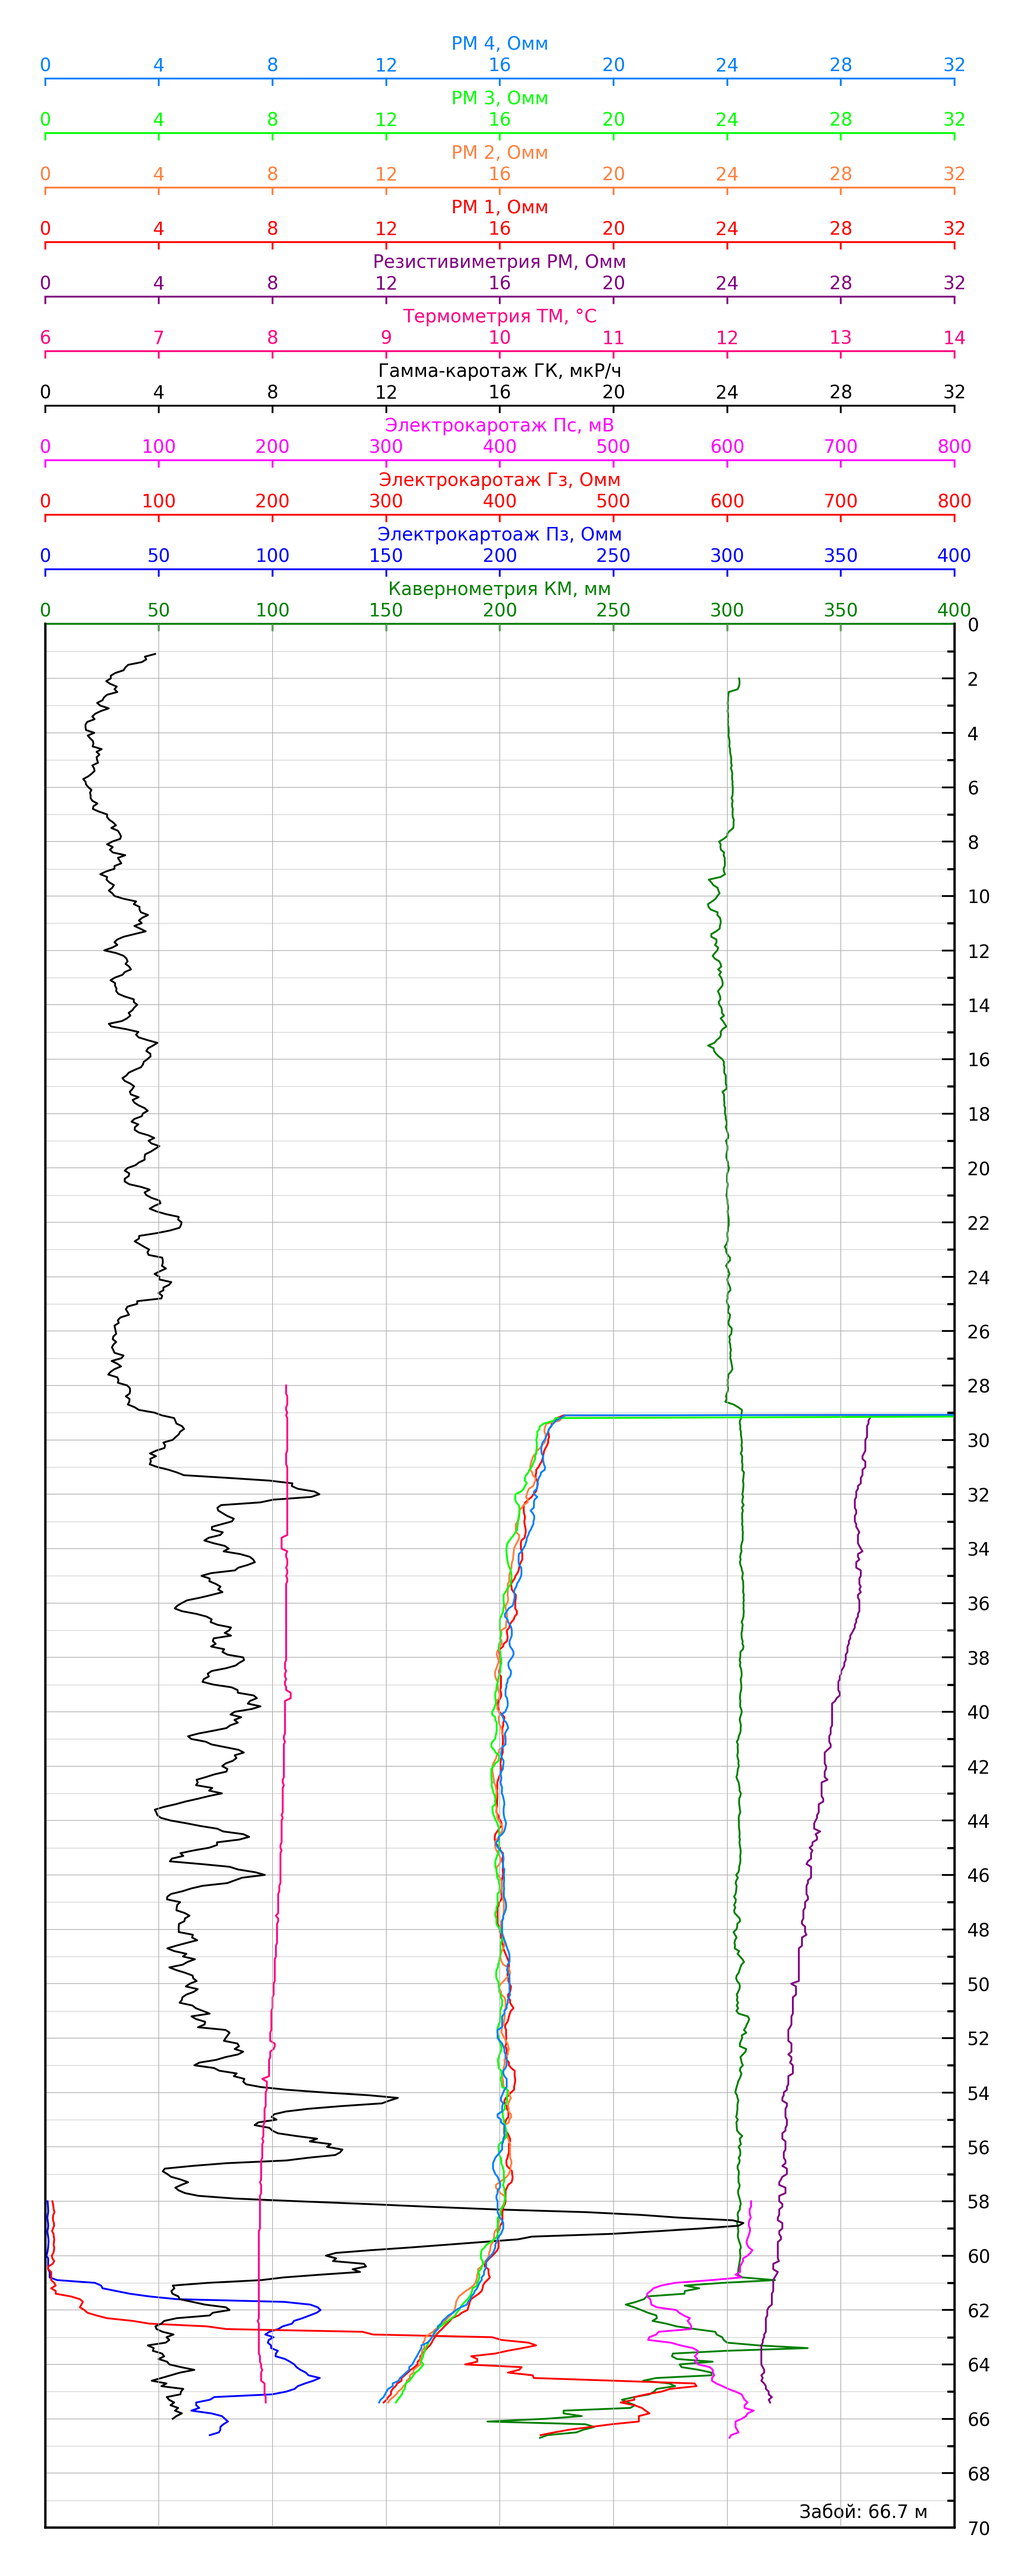
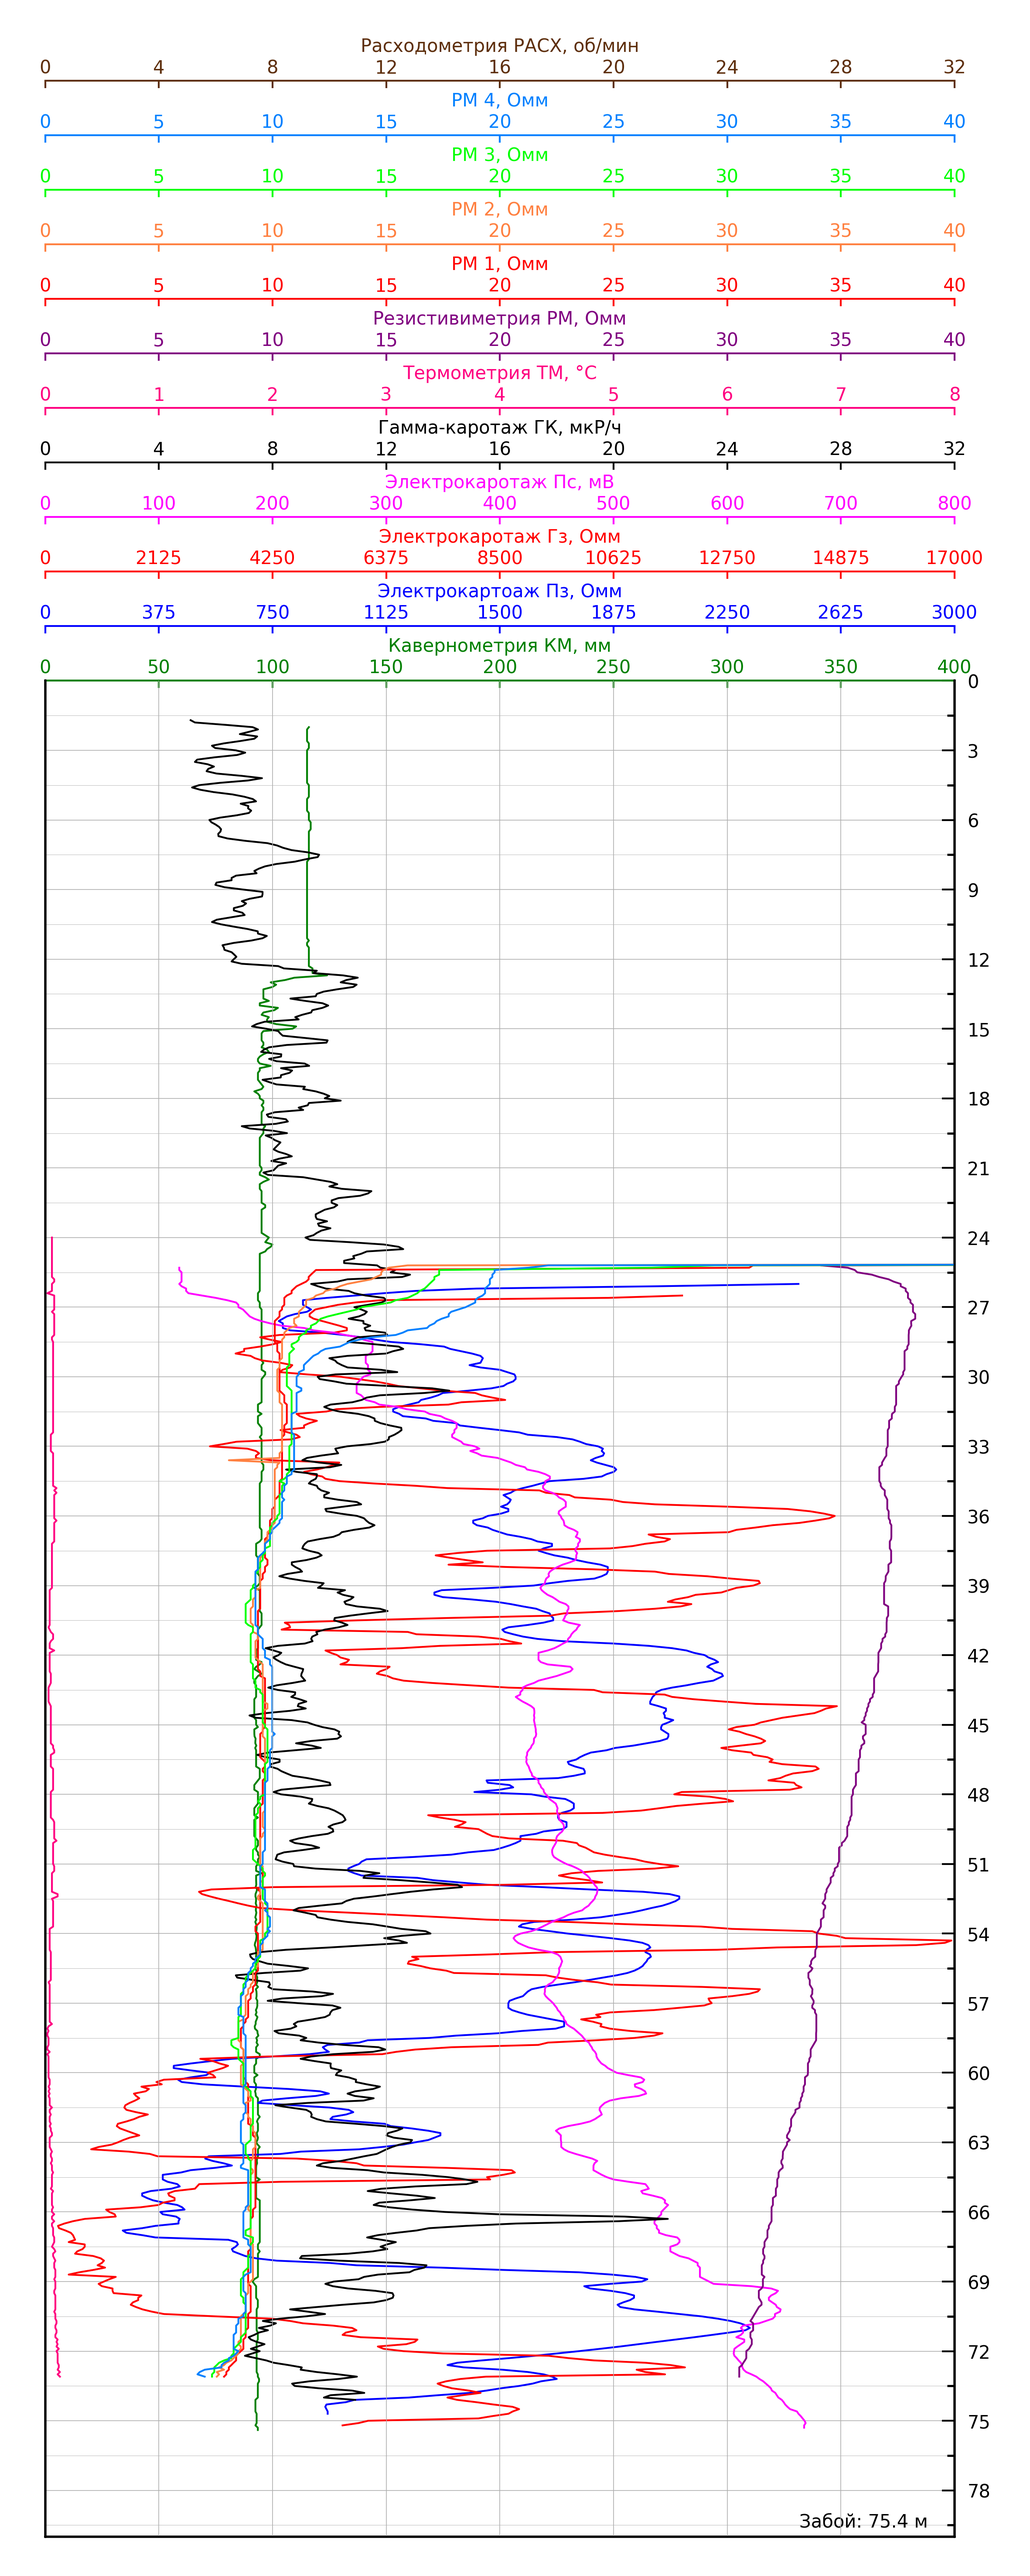
доработал геофизику, почему-то не строится расходометрия

diff --git a/src/well_section_counter/geophys.py b/src/well_section_counter/geophys.py
@@ -16,6 +16,8 @@ names = {
     "TM": "Термометрия ТМ, °С",
     "RM": "Резистивиметрия РМ, Омм",
     "KM": "Кавернометрия КМ, мм",
+    "ML": "Магнитная локация МЛ, у.е.",
+    "RASH": "Расходометрия РАСХ, об/мин",
 }
 
 data_color_dict = {
@@ -31,10 +33,12 @@ data_color_dict = {
     "GK": "#000000",
     "KM": "#008000",
     "D": "#008000",
+    "ML": "#ffa500",
+    "RASH": "#5e2f0d",
 }
 
 
-def lac_read(way="well_section_counter/las/1.las"):
+def lac_read(way="well_section_counter/las/22.las"):
     # чтение файла
     las = lasio.read(way)
     # чтение ключей из файла
@@ -78,9 +82,18 @@ def lac_read(way="well_section_counter/las/1.las"):
     # отдельный цикл для задания границ горизонтальных осей для всех RM (у них должен быть единый масштаб, так что вынес отдельно)
     rm_data = []
     for key in keys:
+        #if key.startswith("RASH"):
+            #data = las[key]
+            #valid_data = data[~np.isnan(data)]
+            #print(valid_data)
+            #print(type(valid_data[0]))
+            #print(len(data))
         if key.startswith("RM"):
             data = las[key]
             valid_data = data[~np.isnan(data)]
+            #print(valid_data)
+            #print(type(valid_data[0]))
+            #print(len(data))
             rm_data.extend(valid_data)
     if "RM" in keys:
         # Преобразуем в массив NumPy для удобства работы
@@ -100,12 +113,6 @@ def lac_read(way="well_section_counter/las/1.las"):
         else:
             rm_min = 0
             rm_max = 32
-        # расчитываем расположение уровня ПВ - пока не работает
-        data = las["RM"]
-        valid_data = data[~np.isnan(data)]
-        target_depth = np.interp(max(valid_data), las["RM"], las["DEPT"])
-        print(max(valid_data))
-        print(target_depth)
     # смещение осей
     offset = 0
     # цикл построения параметров
@@ -125,6 +132,19 @@ def lac_read(way="well_section_counter/las/1.las"):
         if key.startswith("RM"):
             ax_max = rm_max
             ax_min = rm_min
+        if key.startswith("ML"):
+            if max(valid_data) < 400:
+                ax_max = 400
+                ax_min = -400
+            elif max(valid_data) < 800:
+                ax_max = 800
+                ax_min = -800
+            elif max(valid_data) < 1000:
+                ax_max = 1000
+                ax_min = -1000
+            else:
+                ax_max = 2000
+                ax_min = -2000
         elif ax_max <= 20:
             ax_max = math.ceil((ax_max + 1) / 2) * 2
             ax_min = math.floor((ax_min) / 2) * 2
@@ -149,6 +169,10 @@ def lac_read(way="well_section_counter/las/1.las"):
             ax_max = math.ceil((ax_max + 2) / 1000) * 1000
             ax_min = 0
             step = 20
+        else:
+            ax_max = math.ceil((ax_max + 2) / 1000) * 1000
+            ax_min = 0
+            step = 20
         # количество тиков и подгонка значения для кратности на количество тиков
         num_ticks = 8
         remainder = (ax_max - ax_min) % 8
@@ -161,7 +185,7 @@ def lac_read(way="well_section_counter/las/1.las"):
         if tick_step == 0:
             tick_step = 1
         ax.xaxis.set_ticks(range(ax_min, ax_max + 1, tick_step))
-        ax.invert_yaxis()
+        # ax.invert_yaxis()
         ax.spines["top"].set_position(("outward", offset))
         ax.spines["top"].set_color(color)
         # подписи осей
